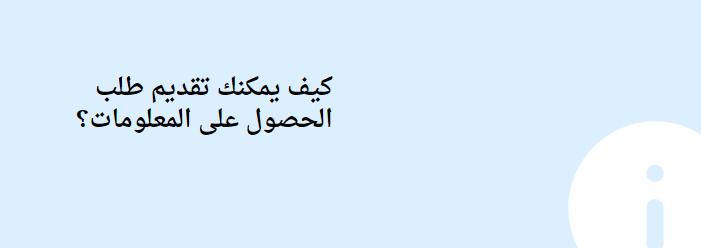
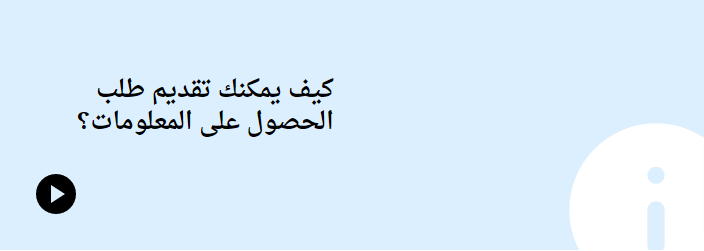
add autoplay to carousel

diff --git a/components/home/PresentaionSection.tsx b/components/home/PresentaionSection.tsx
@@ -23,7 +23,7 @@ const PresentationSection = () => {
             getSource('https://www.youtube.com/embed/btyV8NDdMzM')} className="relative bg-secondary/30 overflow-hidden my-20 mx-auto h-[250px] w-[80%] md:w-[55%] cursor-pointer">
       
         <h2 className='text-2xl w-[270px] absolute left-8 sm:left-16 top-[30%] font-semibold'>كيف يمكنك تقديم طلب الحصول على المعلومات؟</h2>
-        <span className='text-5xl absolute bottom-8 left-8'></span>
+        <span className='text-5xl absolute bottom-8 left-8'><PlayIcon/></span>
         <span className='text-[10rem] sm:text-[13rem] absolute -bottom-12 sm:-bottom-16 -right-10 sm:-right-14 text-white'><InfoIcon/></span>
       </div>
     </>

diff --git a/components/home/CarrousselSection.tsx b/components/home/CarrousselSection.tsx
@@ -1,4 +1,4 @@
-import { useState } from 'react'
+import { useEffect, useState } from 'react'
 import { useRouter } from 'next/router'
 import { MinusIcon, NextIcon, PreviousIcon } from '../icons'
 import Modal from './Modal'
@@ -56,6 +56,16 @@ const Carroussel = () => {
     const newIndex = isLastSlide ? 0 : currentIndex + 1
     setCurrentIndex(newIndex)
   }
+
+  useEffect(() => {
+    setTimeout(
+      () =>
+      nextSlide(),
+      5000
+    );
+
+    return () => {};
+  }, [currentIndex]);
 
   return (
     <>
